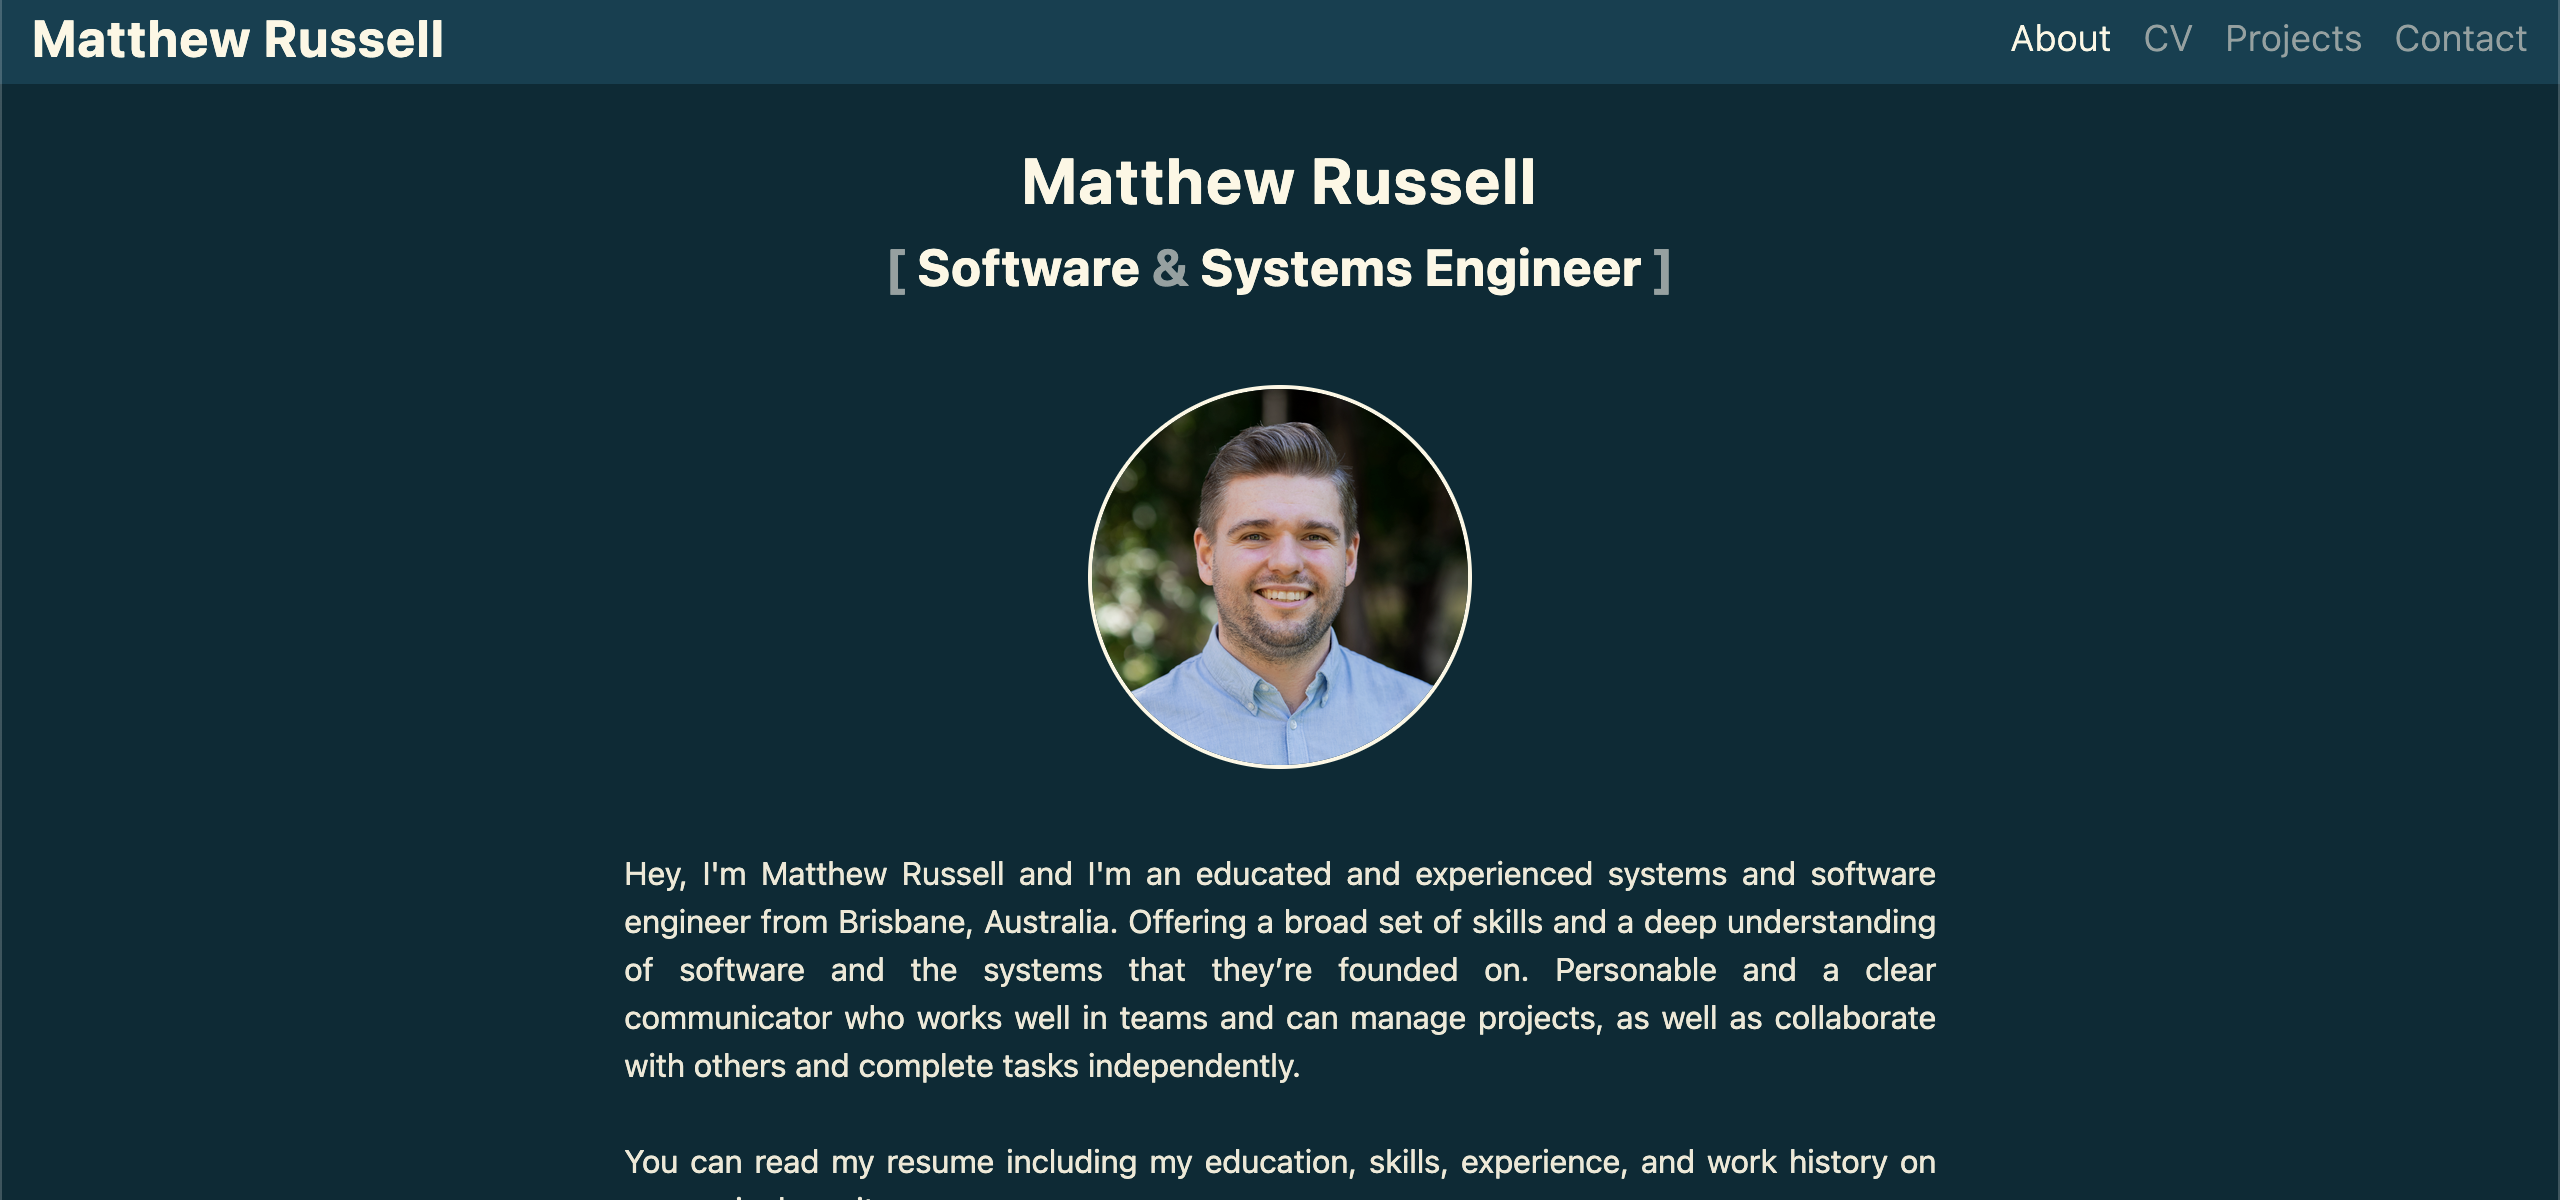
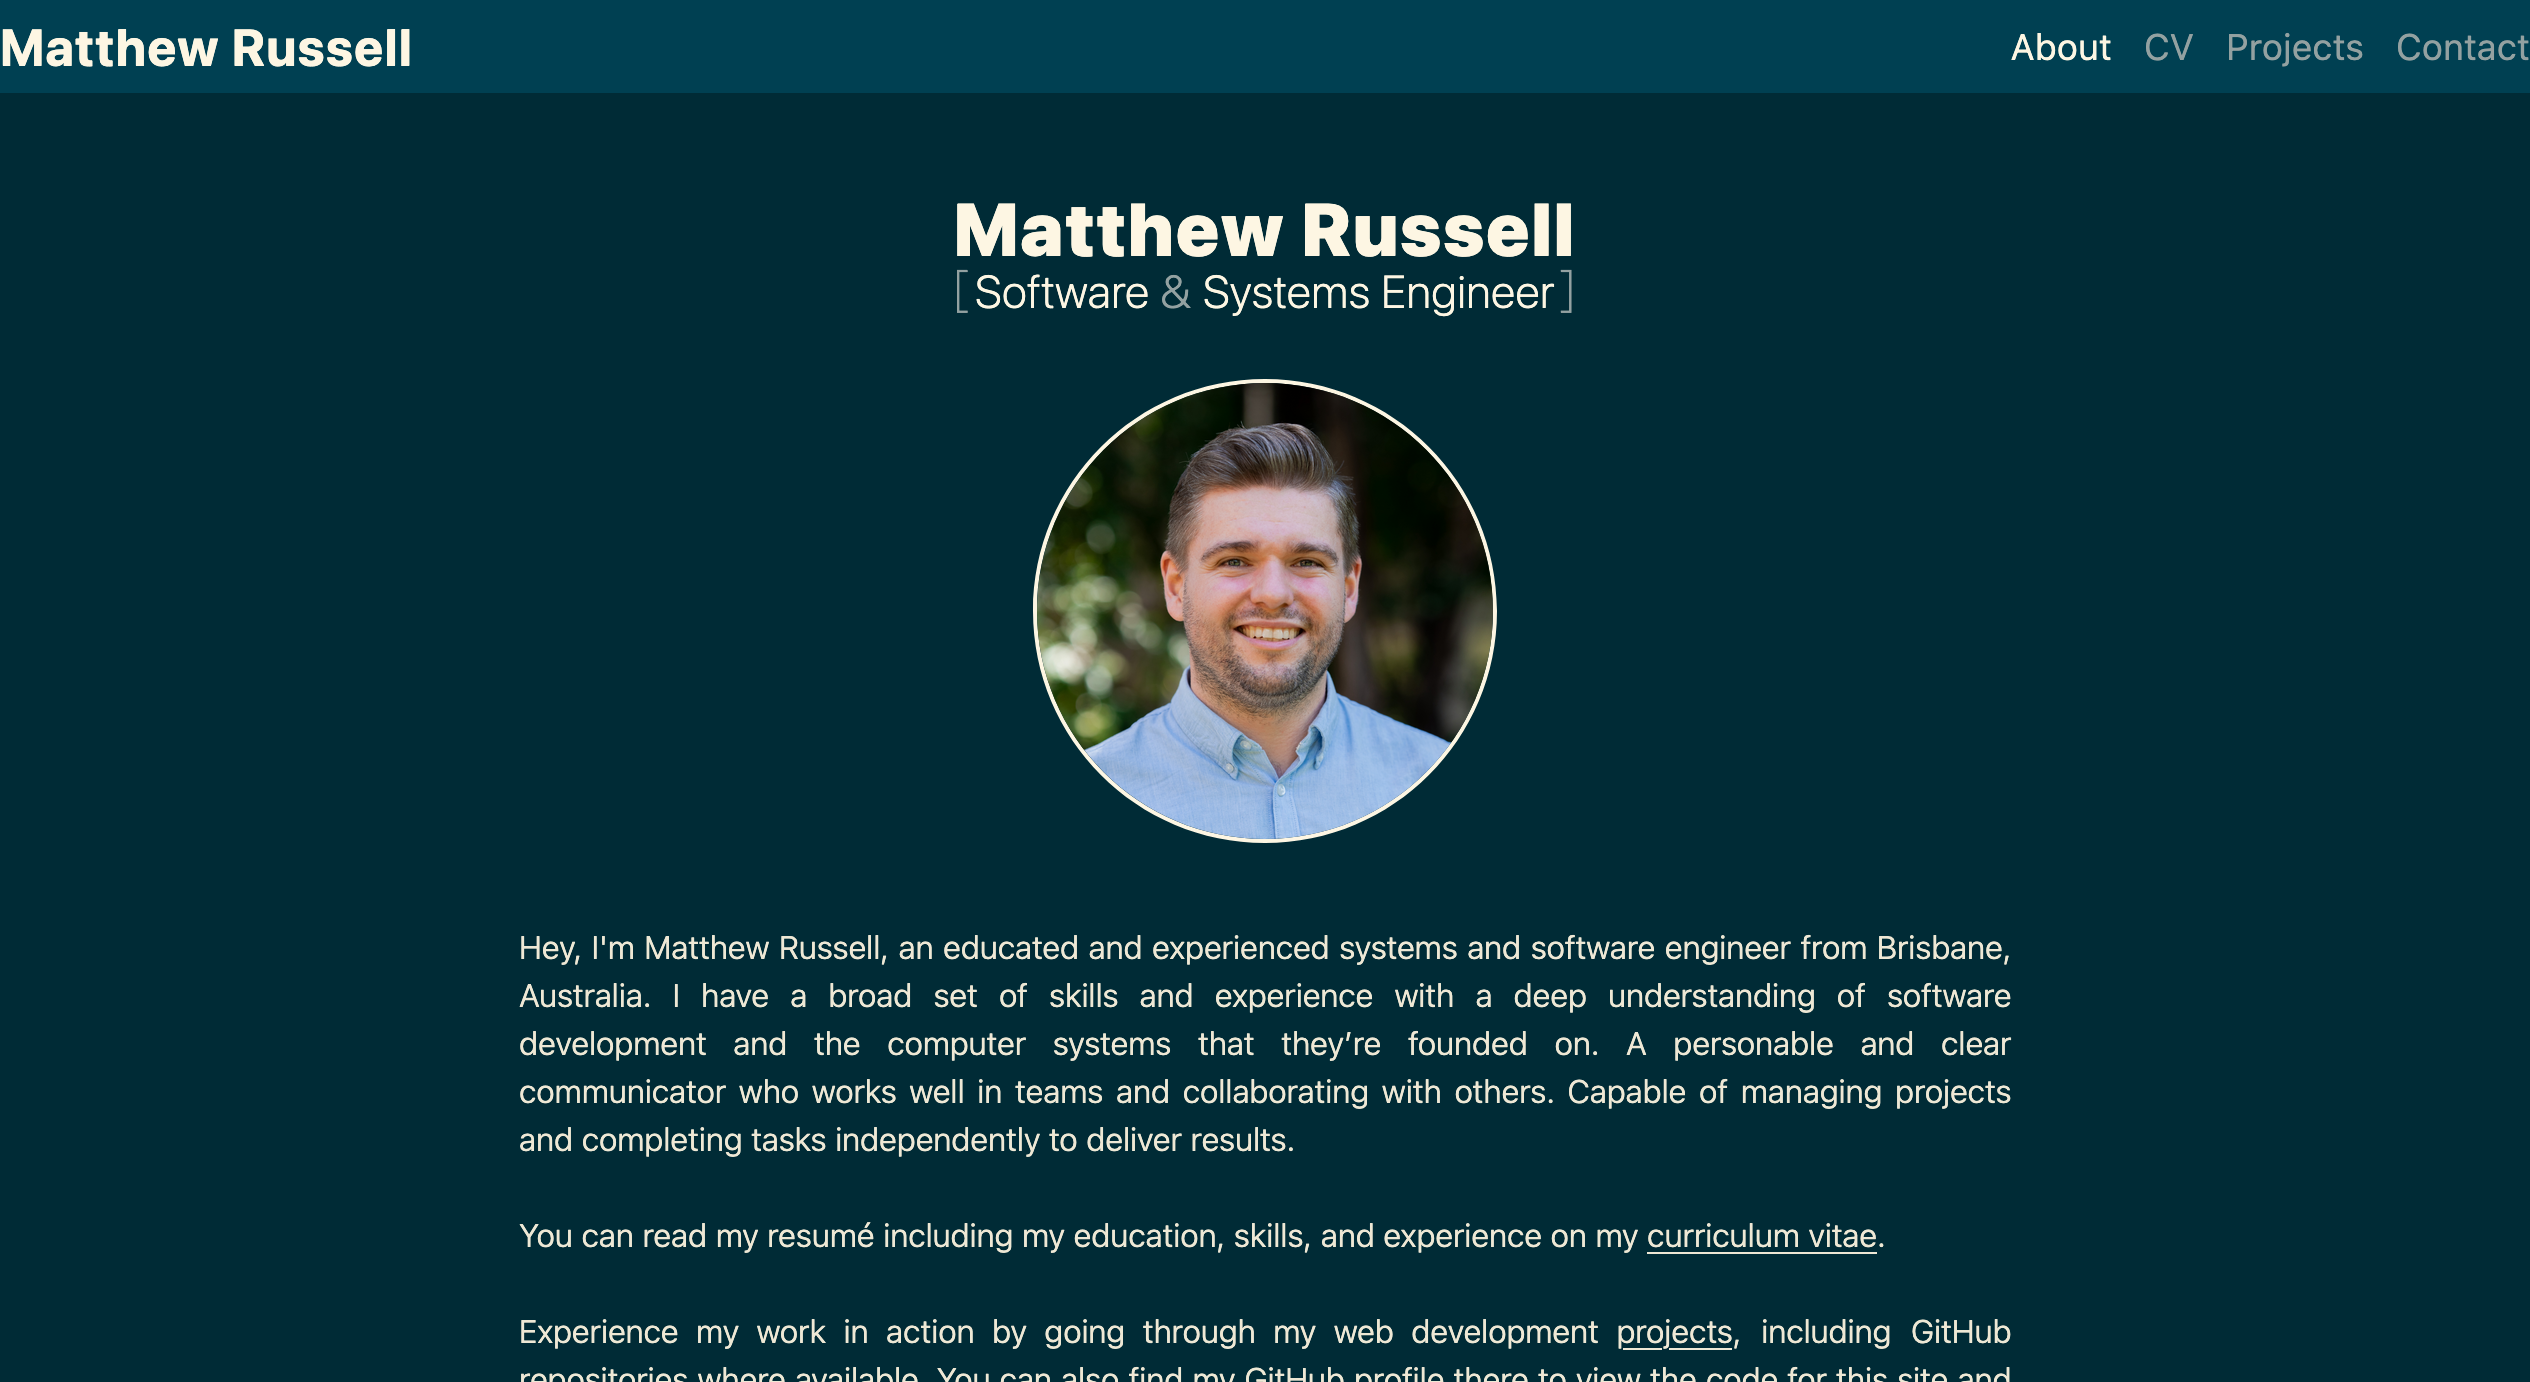
root color

diff --git a/src/index.html b/src/index.html
@@ -8,6 +8,6 @@
   <link rel="icon" type="image/x-icon" href="favicon.ico">
 </head>
 <body>
-  <app-root class="flex flex-col min-h-[100vh] justify-between"></app-root>
+  <app-root class="flex flex-col min-h-[100vh] justify-between bg-blue-3"></app-root>
 </body>
 </html>

diff --git a/src/styles.css b/src/styles.css
@@ -34,7 +34,8 @@
 }
 
 :root {
-    background-color: var(--color-blue-3);
+    background-color: var(--color-blue-1);
+    /* background-color: linear-gradient(180deg, #004052 50%, #00212B 50%); */
     color: var(--color-white-1);
 }
 

diff --git a/src/app/footer/footer.html b/src/app/footer/footer.html
@@ -1,3 +1,3 @@
-<div class="bg-blue-4 h-12 mt-16 flex justify-center">
+<div class="bg-blue-1 h-12 mt-16 flex justify-center">
     <p class="text-gray-1 font-[250] my-auto">© 2025 Matthew Russell. All rights reserved.</p>
 </div>
